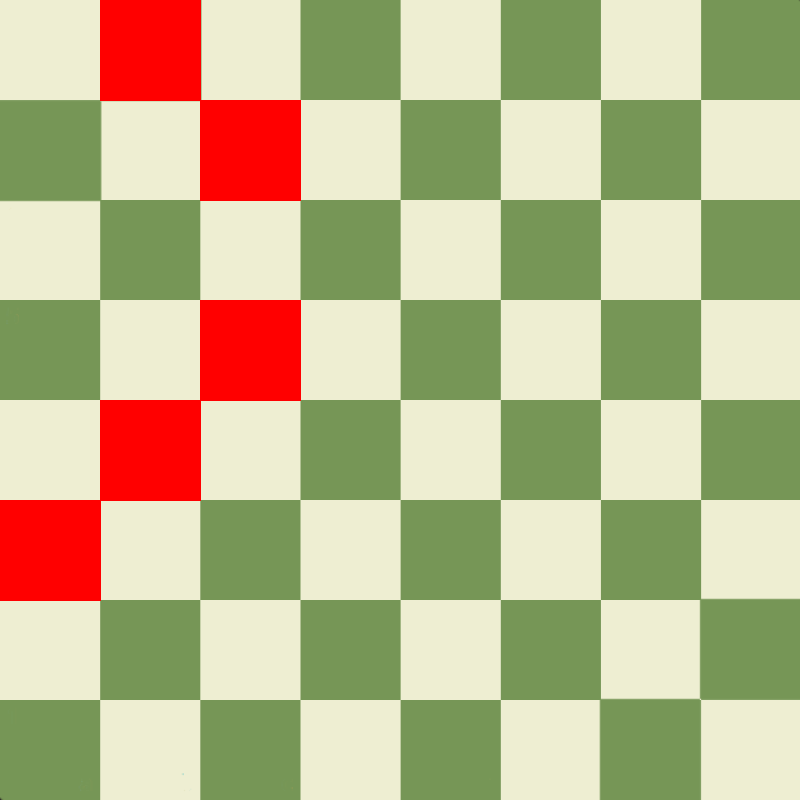
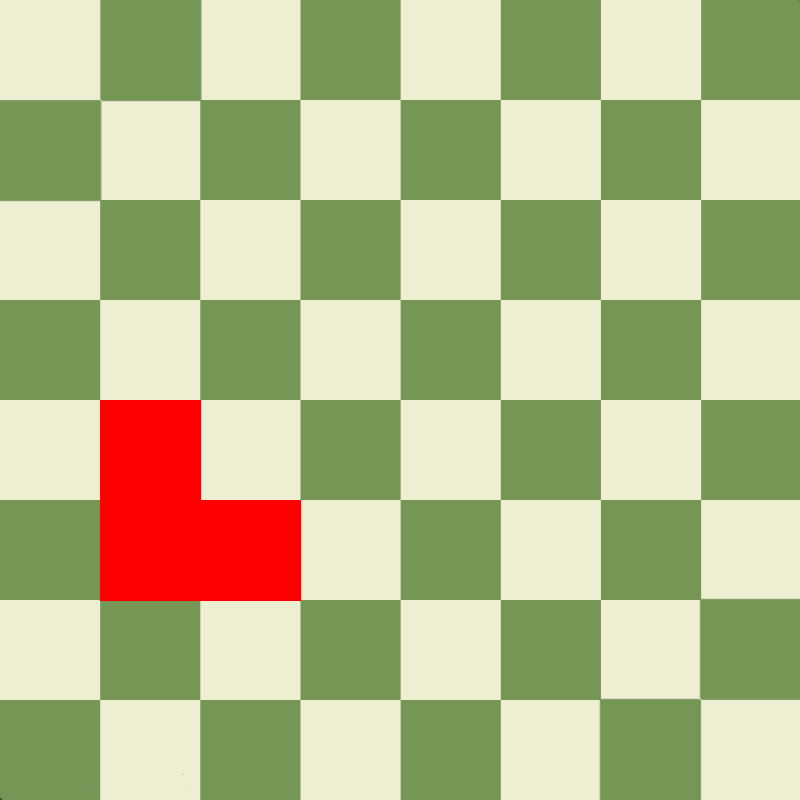
Work in Progress

diff --git a/pieces.py b/pieces.py
@@ -71,15 +71,77 @@ class Pieces:
 
         def legal_moves(self, board):
             moves = self.moves()
-            semi_legal_moves = [move for move in moves if move[0] in range(0, 8) and move[1] in range(0, 8)]
+            semi_legal_moves = [move for move in moves if move[0] in range(0, 7) and move[1] in range(0, 7)]
+            semi_semi_legal_moves = [move for move in semi_legal_moves if board[move[0]][move[1]] != self.color]
 
-            return semi_legal_moves
+            return semi_semi_legal_moves
 
     class Pawn:
         def __init__(self, color, position):
             self.color = color
             self.position = position
             self.value = 1
+            self.en_passantable = False
+
+            if self.color == "white": self.direction = 1
+            else: self.direction = -1
+
 
             # Double pawn move info
             self.has_moved = False
+
+        def check_for_en_passant(self, board):
+            Rank, File = self.position
+            en_passantable_cells = [[Rank, File-1], [Rank, File+1]]
+
+            # Remove outside table
+            en_passantable_cells = [move for move in en_passantable_cells if move[0] in range(0, 7) and move[1] in range(0, 7)]
+
+            legal_en_passant = []
+            for move in en_passantable_cells:
+                Rank, File = move
+                cell = board[Rank][File]
+                if cell == "":
+                    continue
+
+                elif cell.color != self.color:
+                    if cell.en_passantable:
+                        legal_en_passant.append([move[0]+1*self.direction, move[1]])
+            
+            return legal_en_passant
+
+        def check_for_captures(self, board):
+            Rank, File = self.position
+            captures = [
+                [Rank+1*self.direction, File-1],
+                [Rank+1*self.direction, File+1]
+            ]
+            captures = [move for move in captures if move[0] in range(0, 7) and move[1] in range(0, 7)]
+            legal_captures = []
+
+            for move in captures:
+                Rank, File = move
+                cell = board[Rank][File]
+                
+                if cell == "":
+                    continue
+
+                elif cell.color != self.color:
+                    legal_captures.append(move)
+
+            return legal_captures
+
+        def legal_moves(self, board):
+            Rank, File = self.position
+            moves = [
+                [Rank+1*self.direction, File]
+            ]
+
+            if not self.has_moved:
+                moves.append([Rank+2*self.direction, File])
+
+            moves = [move for move in moves if move[0] in range(0, 7) and move[1] in range(0, 7)]
+            [moves.append(move) for move in self.check_for_en_passant(board)]
+            [moves.append(move) for move in self.check_for_captures(board)]
+
+            return moves

diff --git a/board.py b/board.py
@@ -6,20 +6,19 @@ class Board:
     def __init__(self):
         self.pieces = Pieces()
         # Default FEN
-        self.import_from_fen("rnbqkbnr/pppppppp/8/8/8/N7/PPPPPPPP/RNBQKBNR w KQkq - 0 1")
-        self.board = self.board[::-1]
+        self.import_from_fen("rnbqkbnr/pppppppp/8/8/8/8/PPPPPPP/RNBQKBNR w KQkq - 0 1")
+        #self.board = self.board[::-1]
+        self.visual_dict = [700, 600, 500, 400, 300, 200, 100, 0]
 
-        number_dictionary = [700, 600, 500, 400, 300, 200, 100, 0]
+        moves = self.board[1][1].legal_moves(self.board)
+        self.visualize_moves(moves)
 
 
-        print(self.board[2][0].color)
-        moves = self.board[2][0].legal_moves(self.board)
-        moves.append([2, 0])
-        print(moves)
+    def visualize_moves(self, moves):
         rects = []
         for pos in moves:
             y, x = pos
-            pos = [x * 100, number_dictionary[y]]
+            pos = [x * 100, self.visual_dict[y]]
             rects.append((pos[0], pos[1], pos[0] + 100, pos[1] + 100))
 
         image = Image.open("resources/empty_board.png").convert('RGBA')
@@ -49,7 +48,7 @@ class Board:
 
     # To set up the board from the FEN field
     def set_board_from_fen(self, position):
-        ranks = position.split("/")
+        ranks = position.split("/")[::-1]
         board = [["" for _ in range(8)] for _ in range(8)]
         
         for rank_index, Rank in enumerate(ranks):
